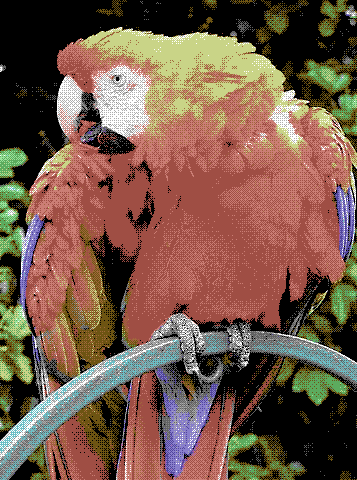
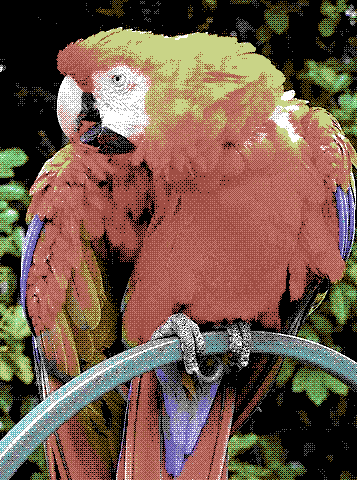
Improve spread

diff --git a/dither.py b/dither.py
@@ -33,16 +33,18 @@ def get_lut_color(lut, color):
     return lut.getpixel((x, y))
 
 
-def dither_image(image, lut):
+def dither_image(image, lut, min_spread, max_spread):
     """Dithers the given image using the given lookup table."""
 
     output = Image.new("RGB", image.size)
 
     for pos in np.ndindex((image.width, image.height)):
         color = image.getpixel(pos)
-        color_lightness = get_lut_color(lut, color)[3]
+        color_lightness = get_lut_color(lut, color)[3] / 255.0
 
-        spread = 50 + 0.3 * color_lightness # This value can be tweaked
+        # This value can be tweaked
+        spread = min_spread + (max_spread - min_spread) * (1 - (2 * color_lightness - 1)**4);
+
         threshold = get_dithering_threshold(pos)
         dithering_color = np.clip(np.add(color, spread * threshold), 0, 255)
 
@@ -51,15 +53,16 @@ def dither_image(image, lut):
 
     return output
 
-
 def main(argv):
-    if len(argv) != 3:
-        print("usage: dither.py image_filename lut_filename output_filename")
+    if len(argv) != 3 and len(argv) != 5:
+        print("usage: dither.py image_filename lut_filename output_filename [min_spread max_spread]")
         sys.exit(2)
 
     image = Image.open(argv[0]).convert("RGB")
     lut = Image.open(argv[1])
-    output = dither_image(image, lut)
+    min_spread = int(argv[3]) if len(argv) == 5 else 0
+    max_spread = int(argv[4]) if len(argv) == 5 else 120
+    output = dither_image(image, lut, min_spread, max_spread)
     output.save(argv[2])
 
 

diff --git a/generate_lut.py b/generate_lut.py
@@ -147,7 +147,7 @@ def generate_lut(palette, size):
 
 def main(argv):
     if len(argv) != 3 and len(argv) != 4:
-        print("usage: generate_lut.py palette_filename output_filename lut_size [color distance formula]")
+        print("usage: generate_lut.py palette_filename output_filename lut_size [color_distance_formula]")
         sys.exit(2)
 
     formula = argv[3] if len(argv) == 4 else ""
